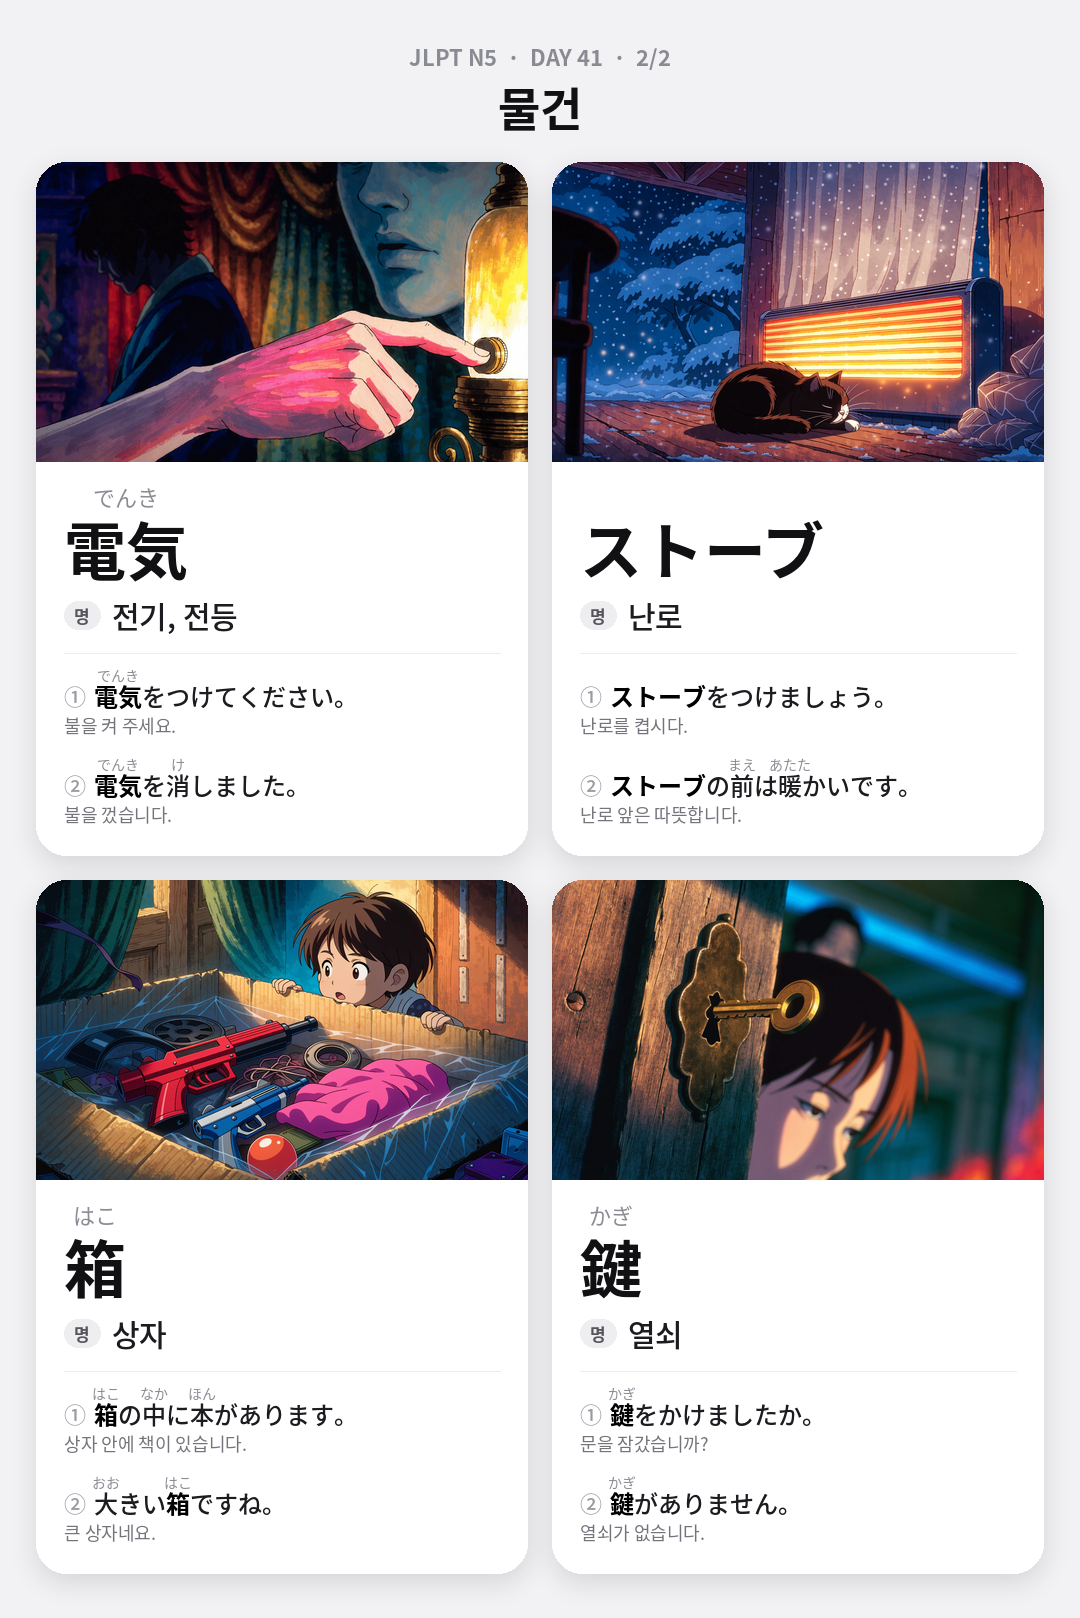
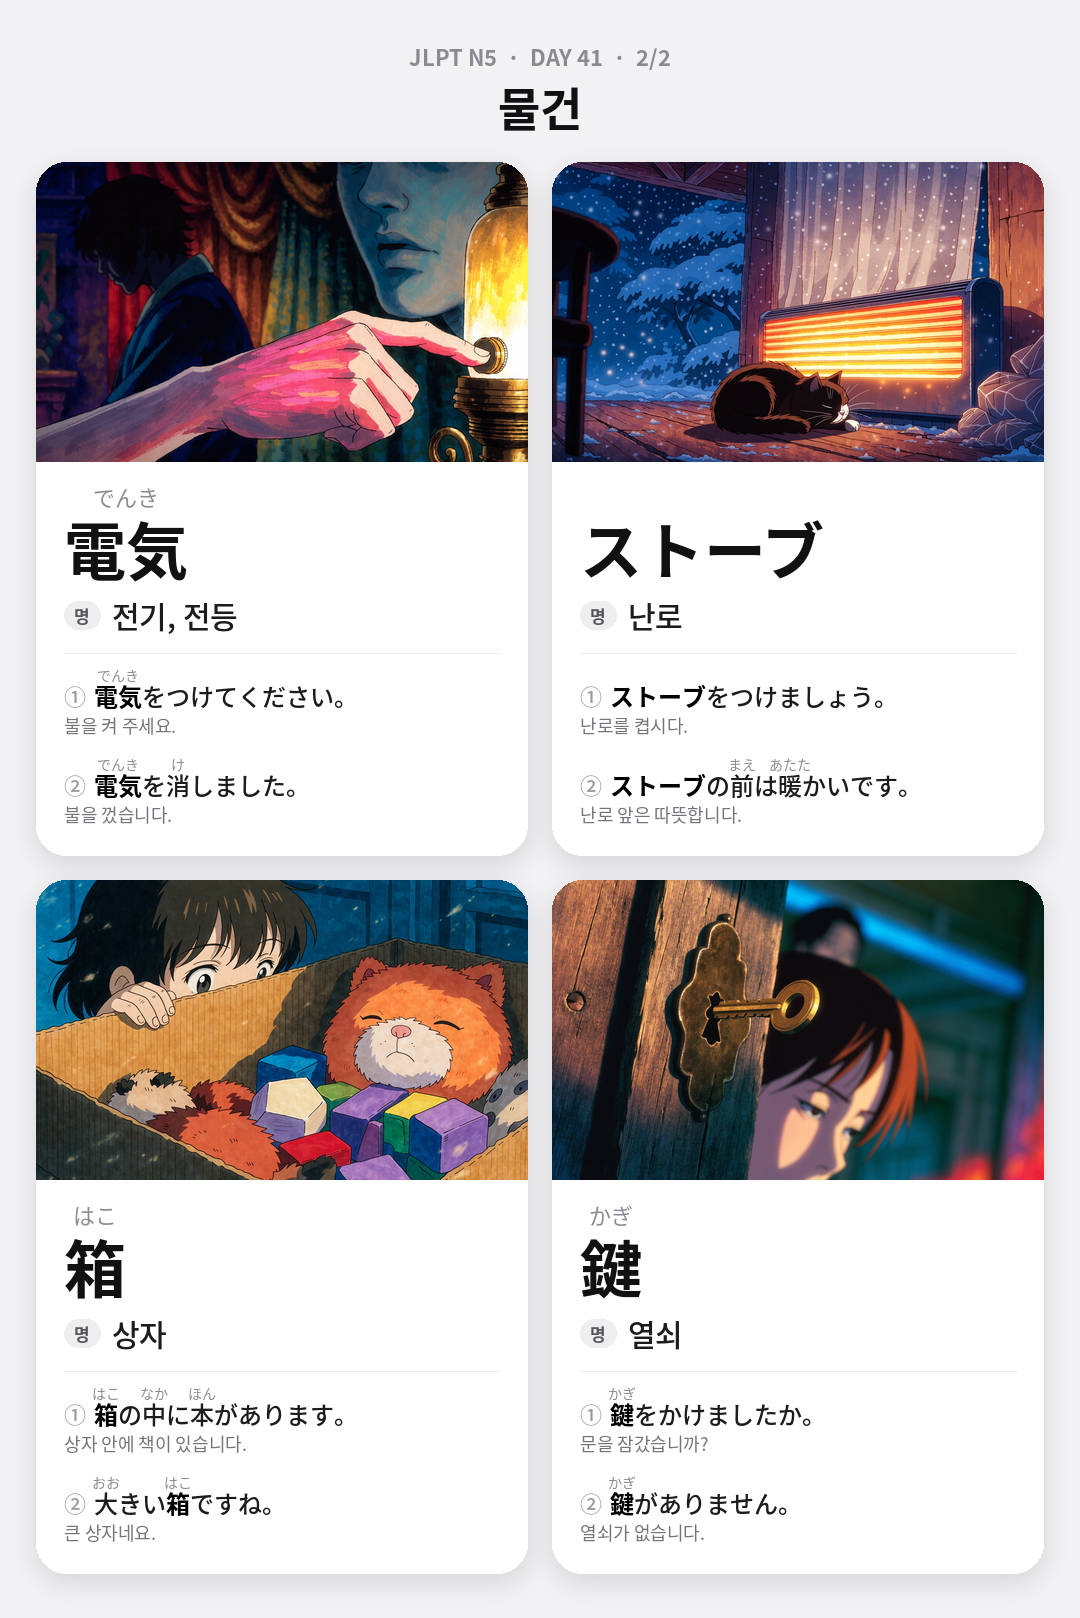
JLPT N5 텔레그램 봇: 500단어·63일 콜라주·메시지 완성
- 새 단어 300개 그림 + 결함 그림 22장 교체
- 1~63일차 콜라주 125장, 메시지 63개 재생성

Claude-Session: https://claude.ai/code/session_01TwEppk9cz51ag36kJEnktd

Changed region(s): [[0.0306, 0.5253, 0.4889, 0.7417]]

diff --git a/jlpt-n5/telegram/build.py b/jlpt-n5/telegram/build.py
@@ -17,8 +17,8 @@ ROOT = Path(__file__).resolve().parent
 PER_DAY, DAYS = 8, 63   # DAYS는 load_words()에서 단어 수로 다시 계산
 START = "2026-11-23"  # DAY 1
 STYLE = ("Cinematic Japanese anime illustration, film still quality. {scene}. "
-         "Highly detailed hand-painted background, dramatic lighting, rich saturated colors, "
-         "expressive faces. No text, no letters, no numbers, no signs with writing, no logos, no watermark.")
+         "Highly detailed hand-painted background, dramatic lighting, rich saturated colors. "
+         "No text, no letters, no numbers, no signs with writing, no logos, no watermark.")
 
 # ---------- data ----------
 def load_words():
